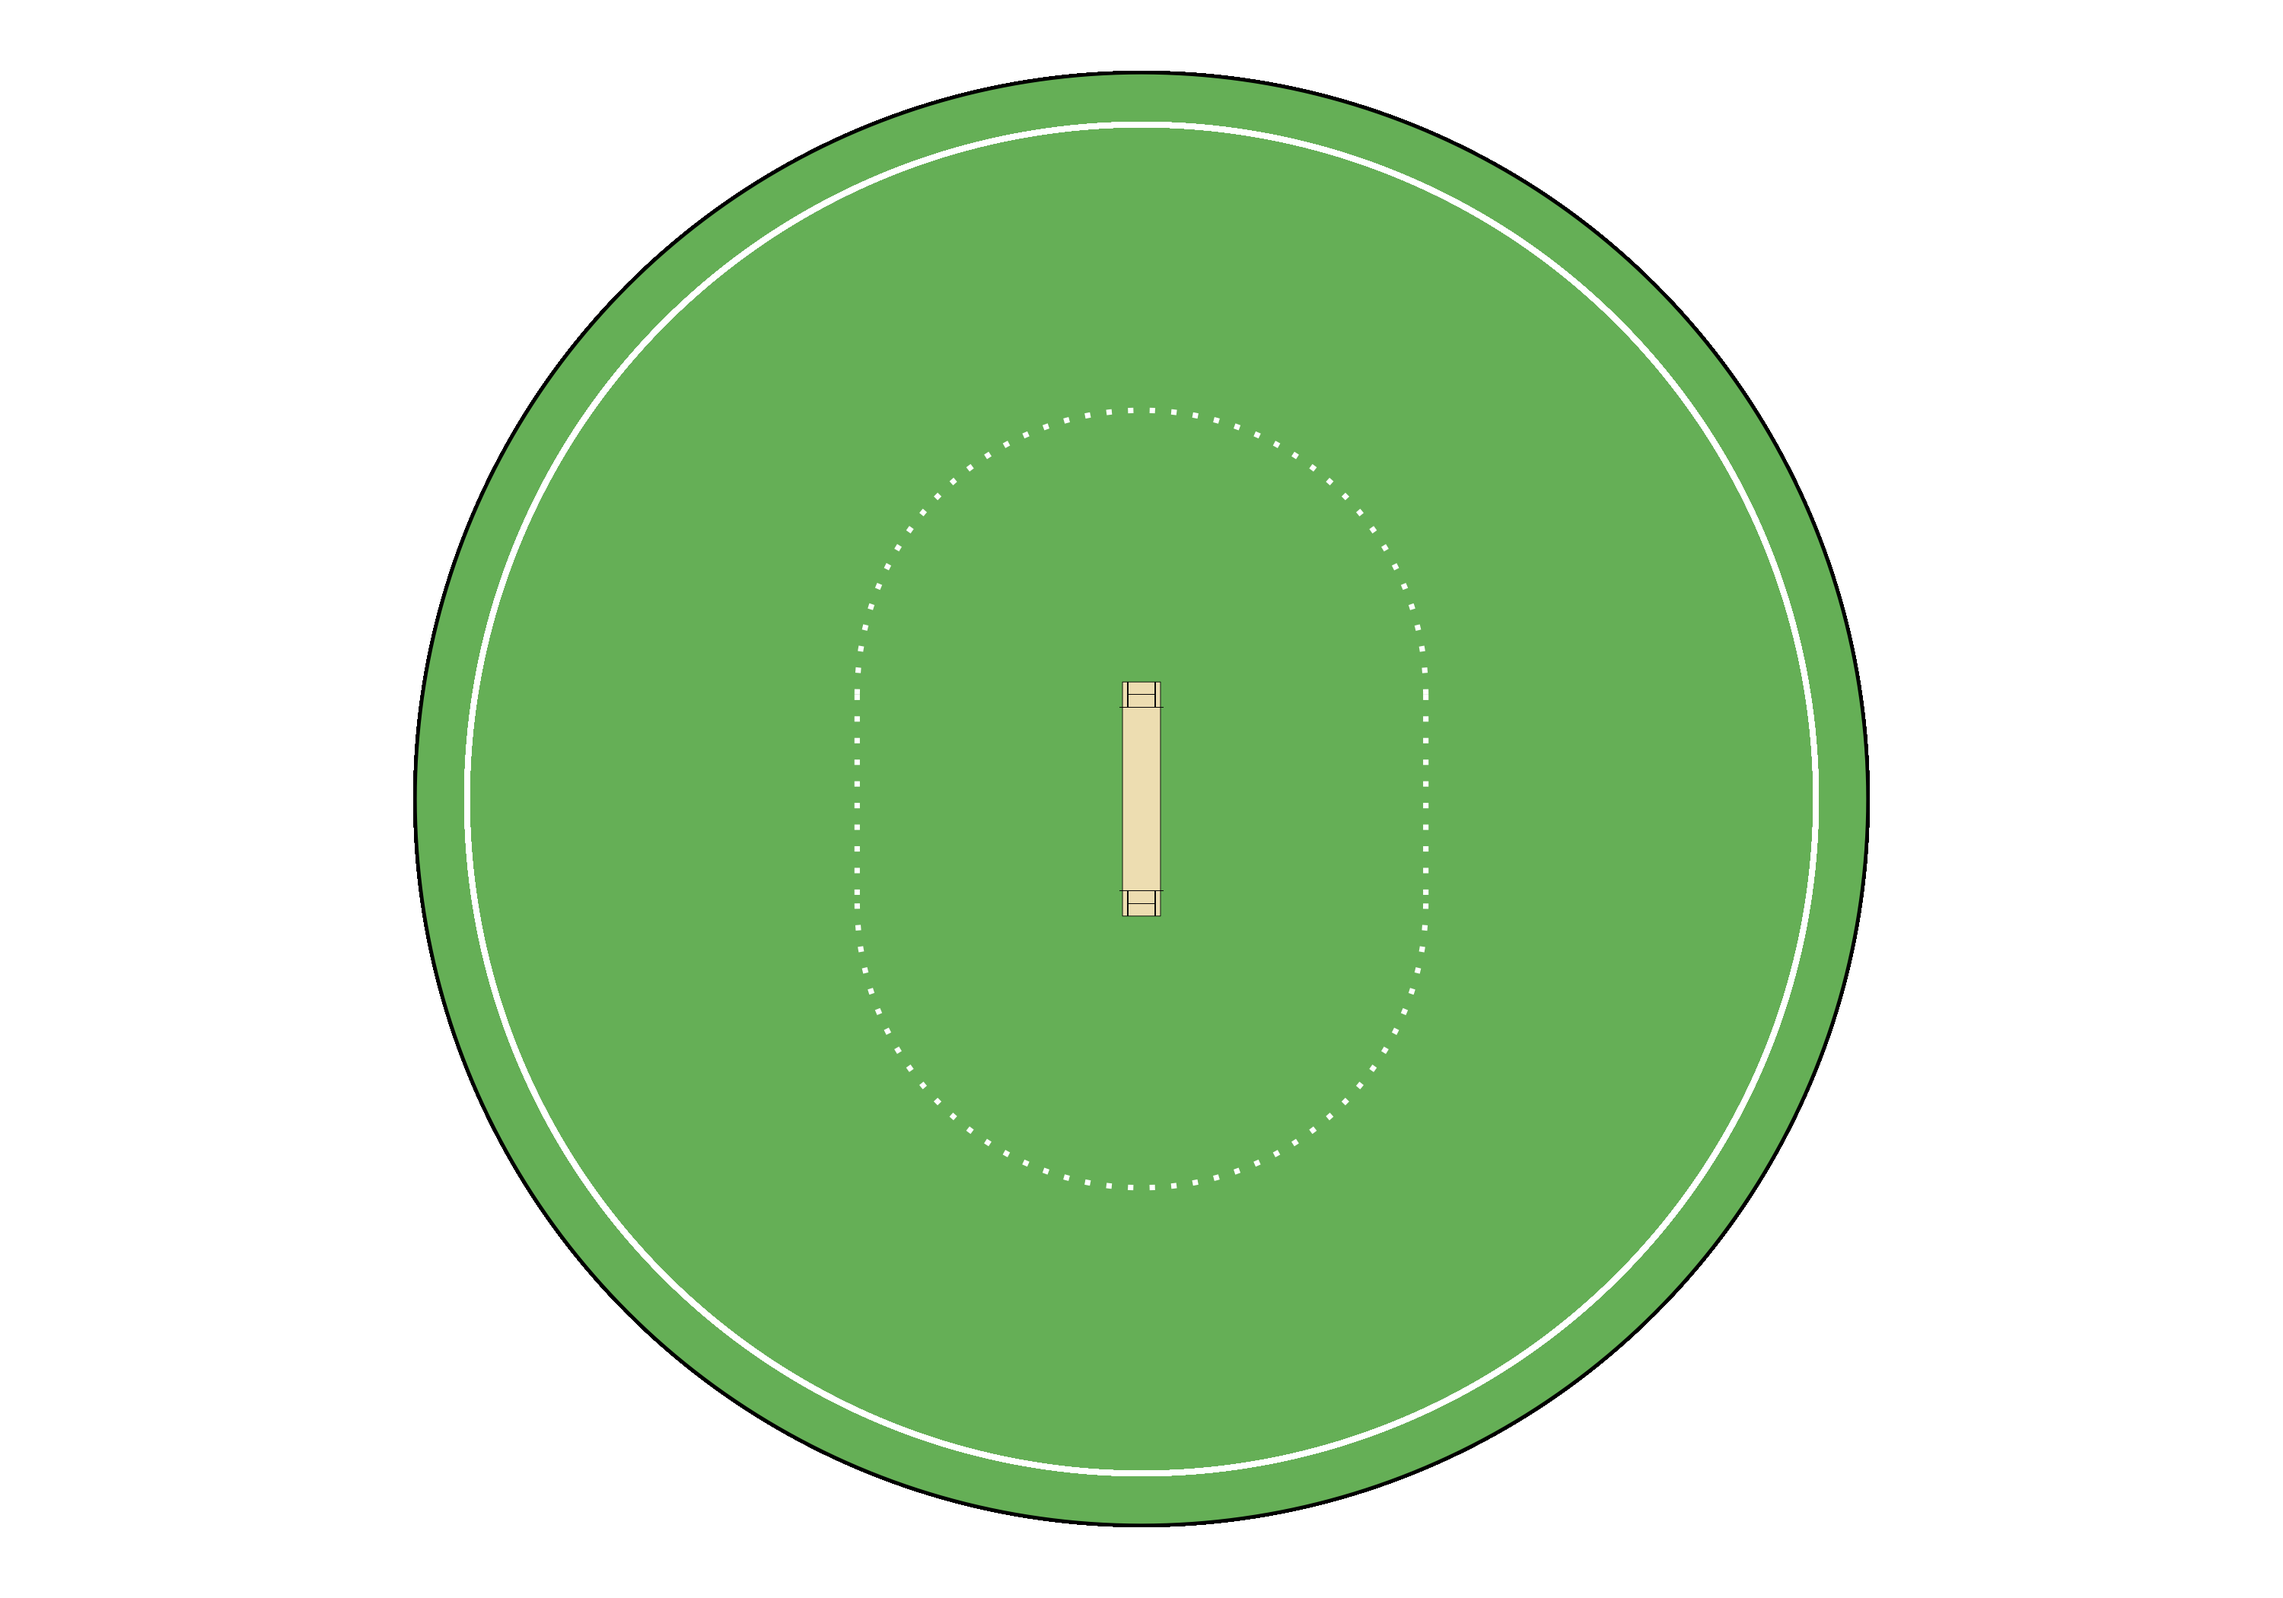
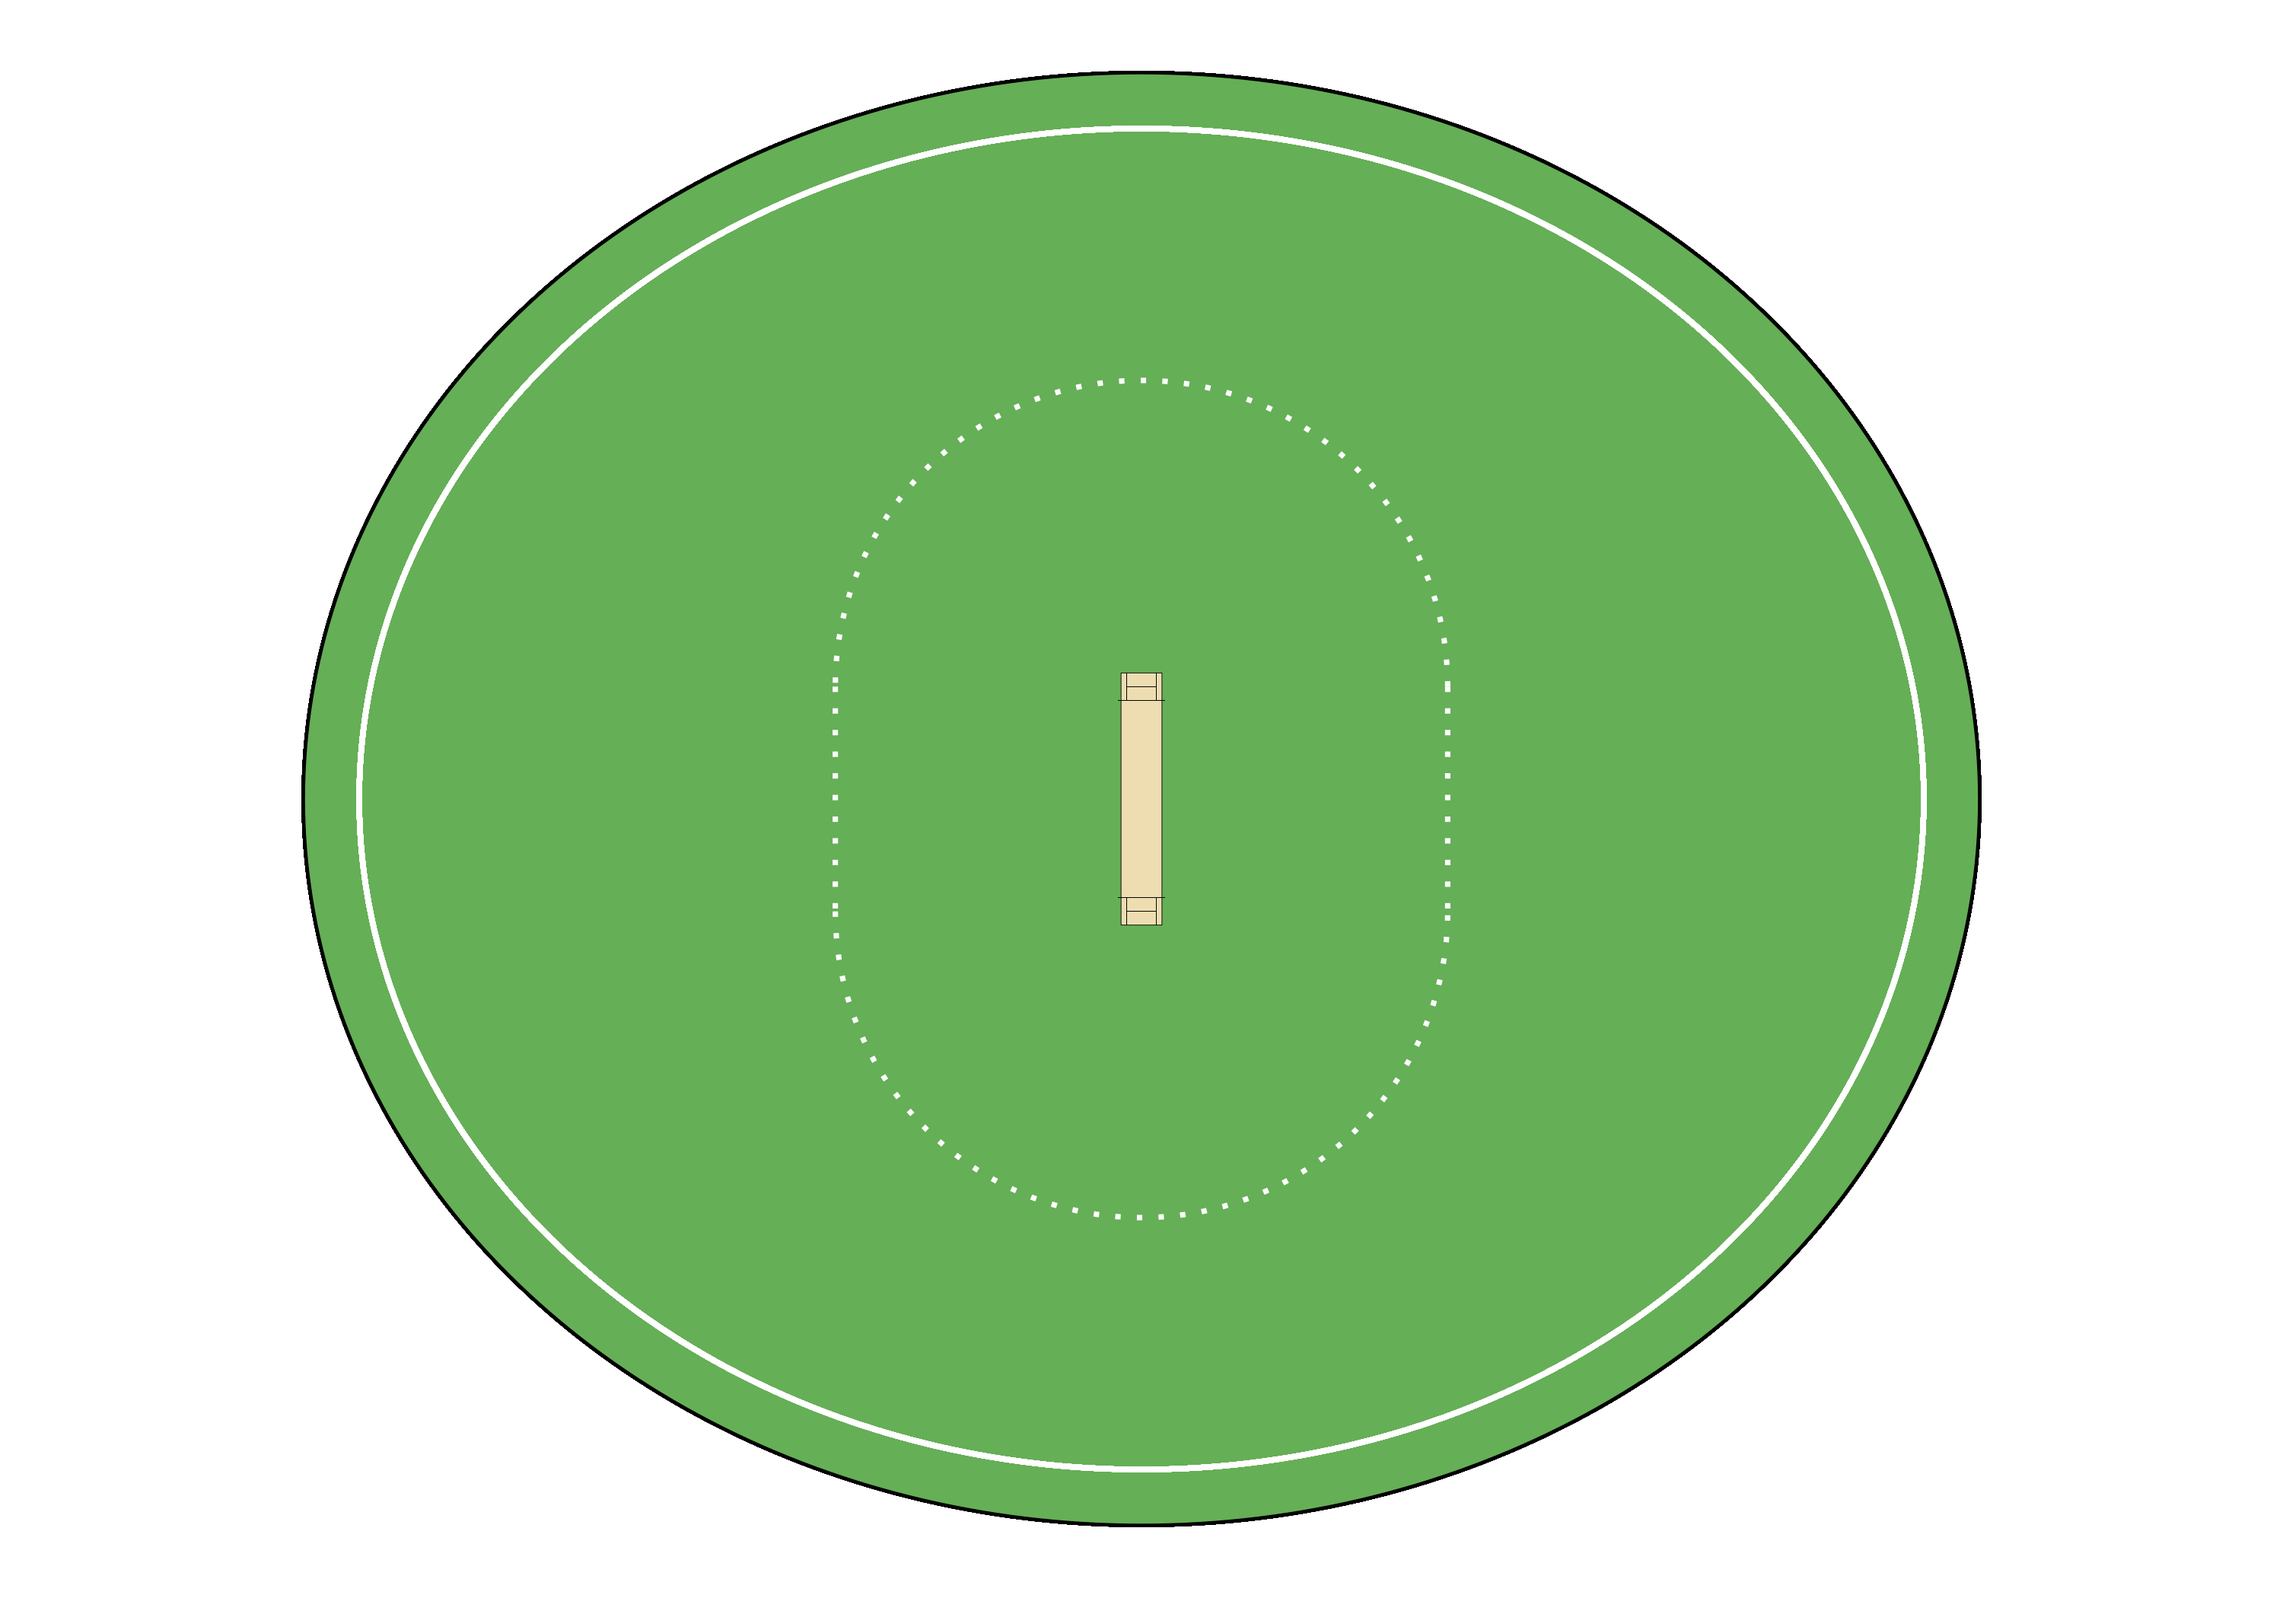
Updated as of 01.06.2024

diff --git a/README.md b/README.md
@@ -8,7 +8,7 @@ This repository contains a set of functions to plot a cricket field and a cricke
 - `images`: Folder containing images of the plots that the functions generate
 
 ## Example Plots
-`cricket_field(straight_boundary = 65, square_boundary = 65)` 
+`cricket_field(straight_boundary = 60, square_boundary = 70)` 
 ![Cricket Field](images/cricket_field.png)
 
 `cricket_pitch()`
